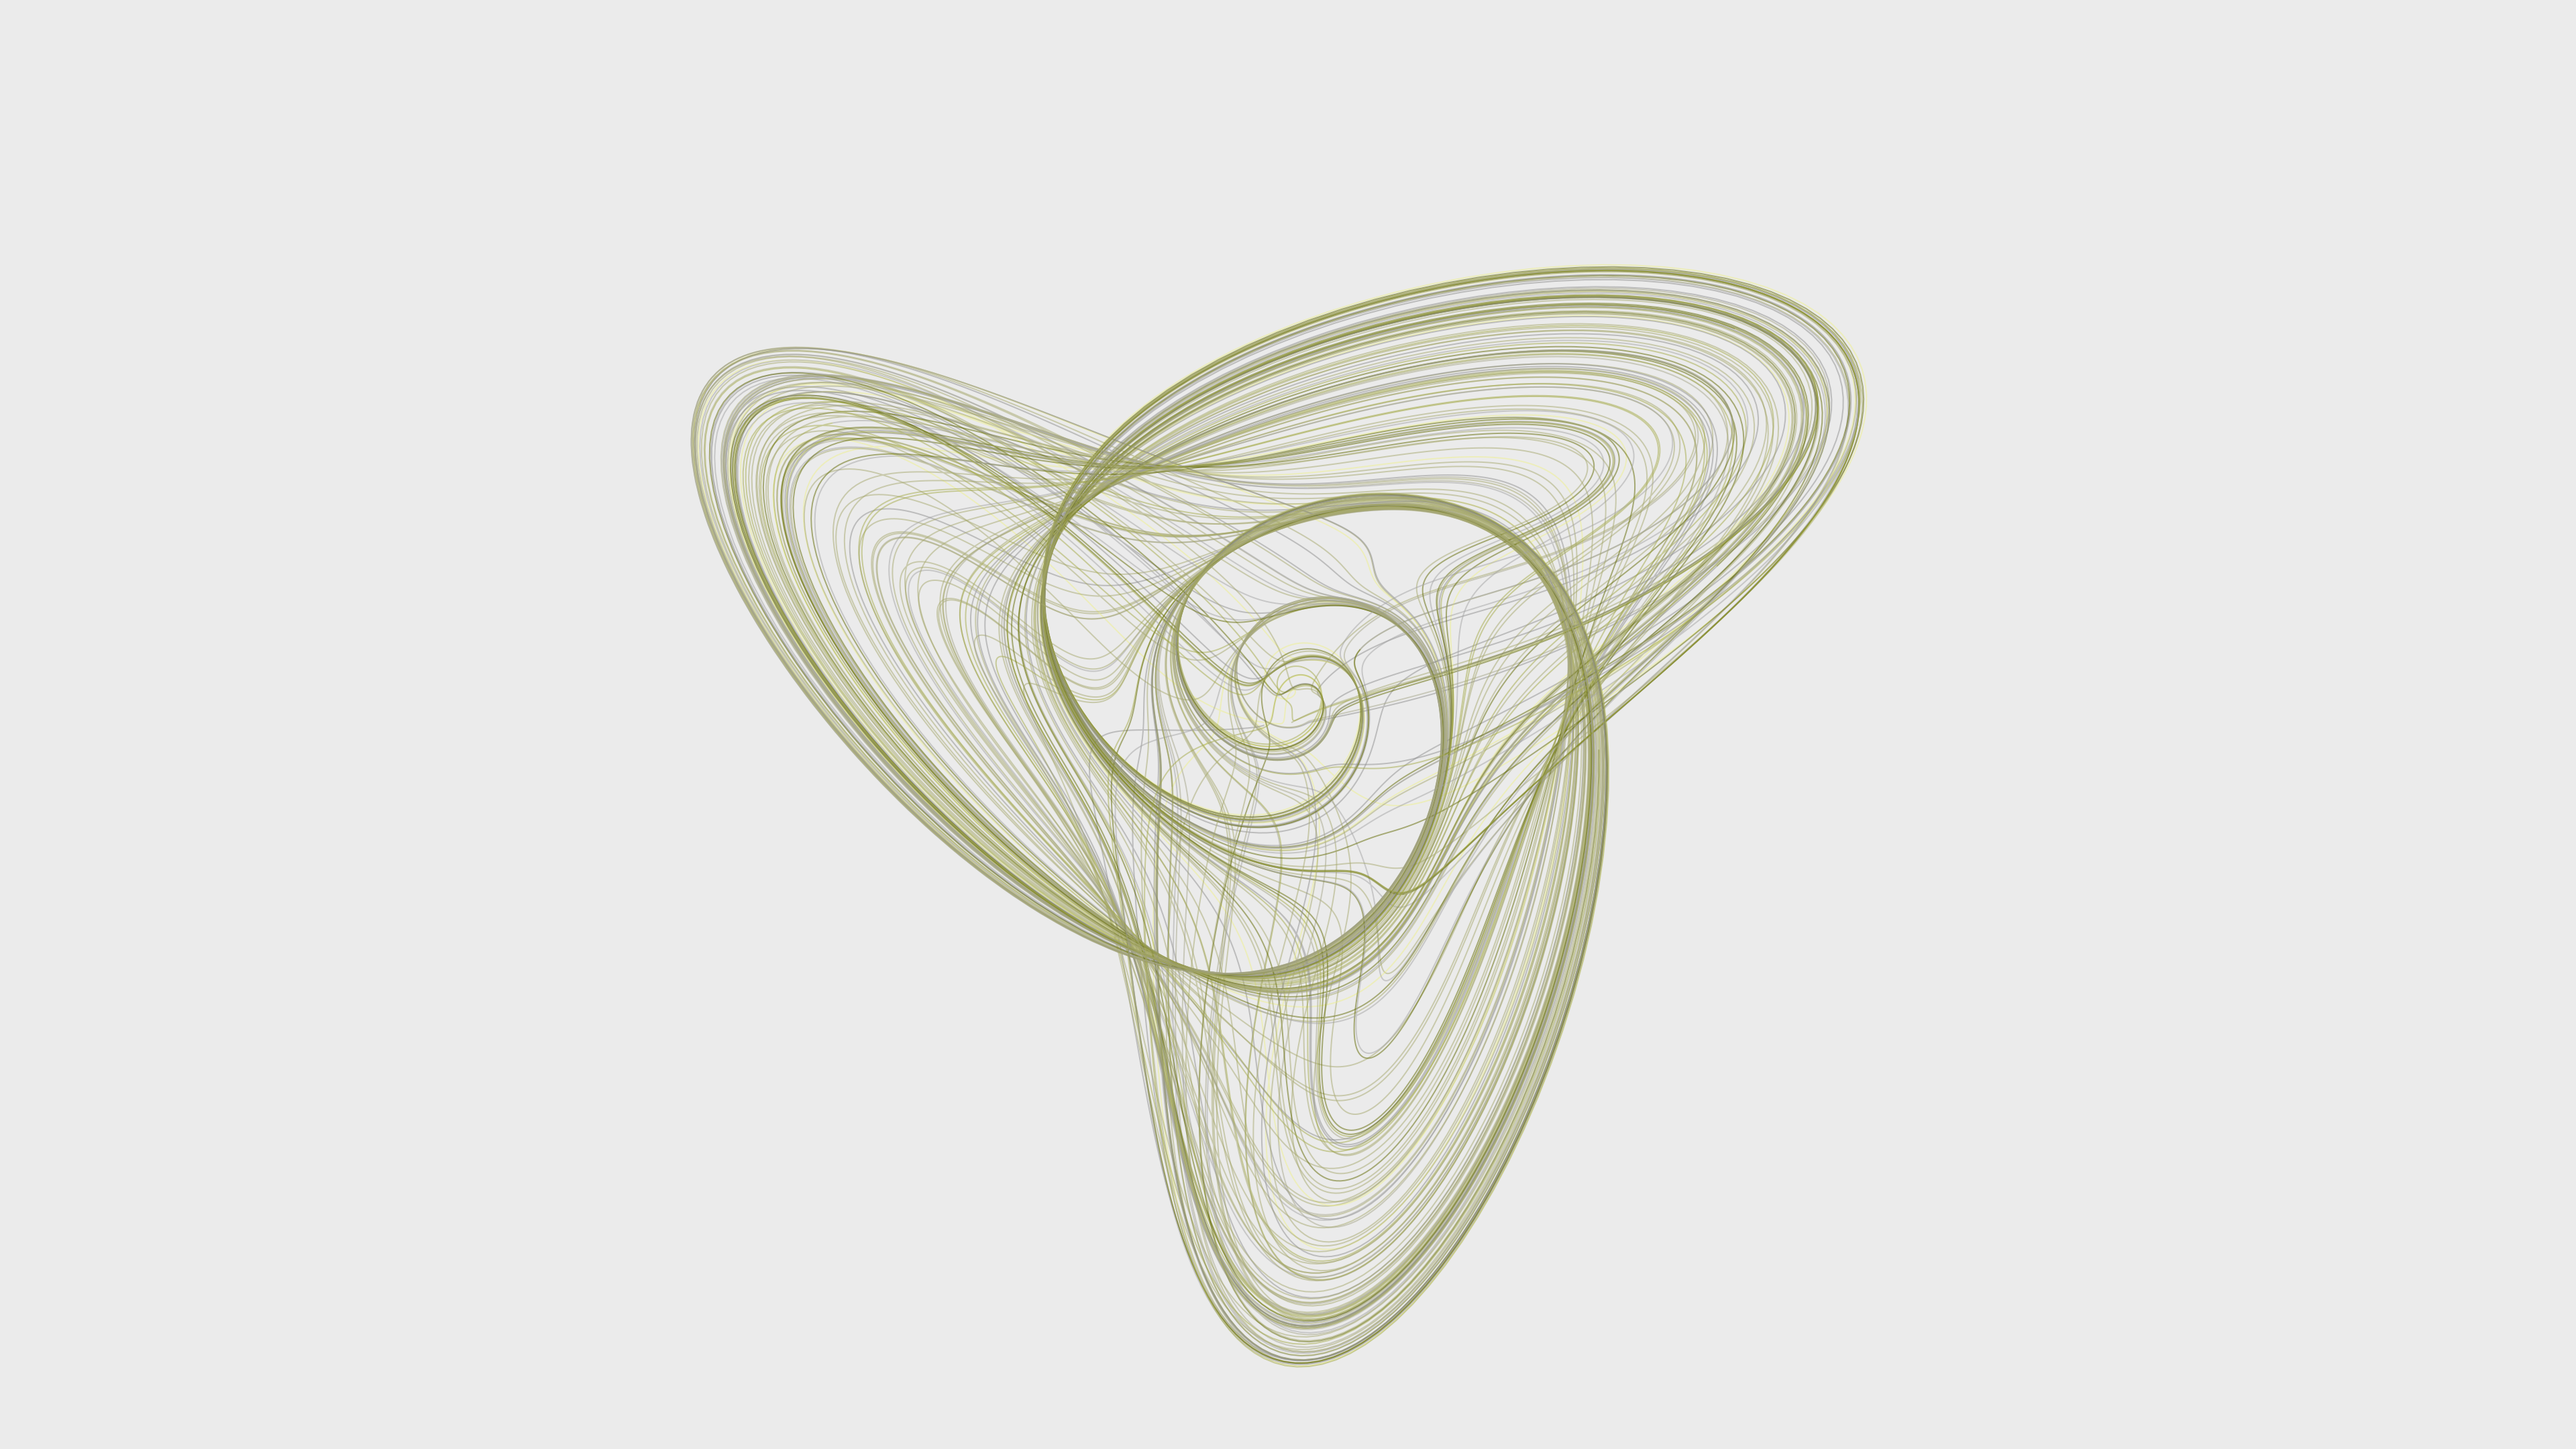
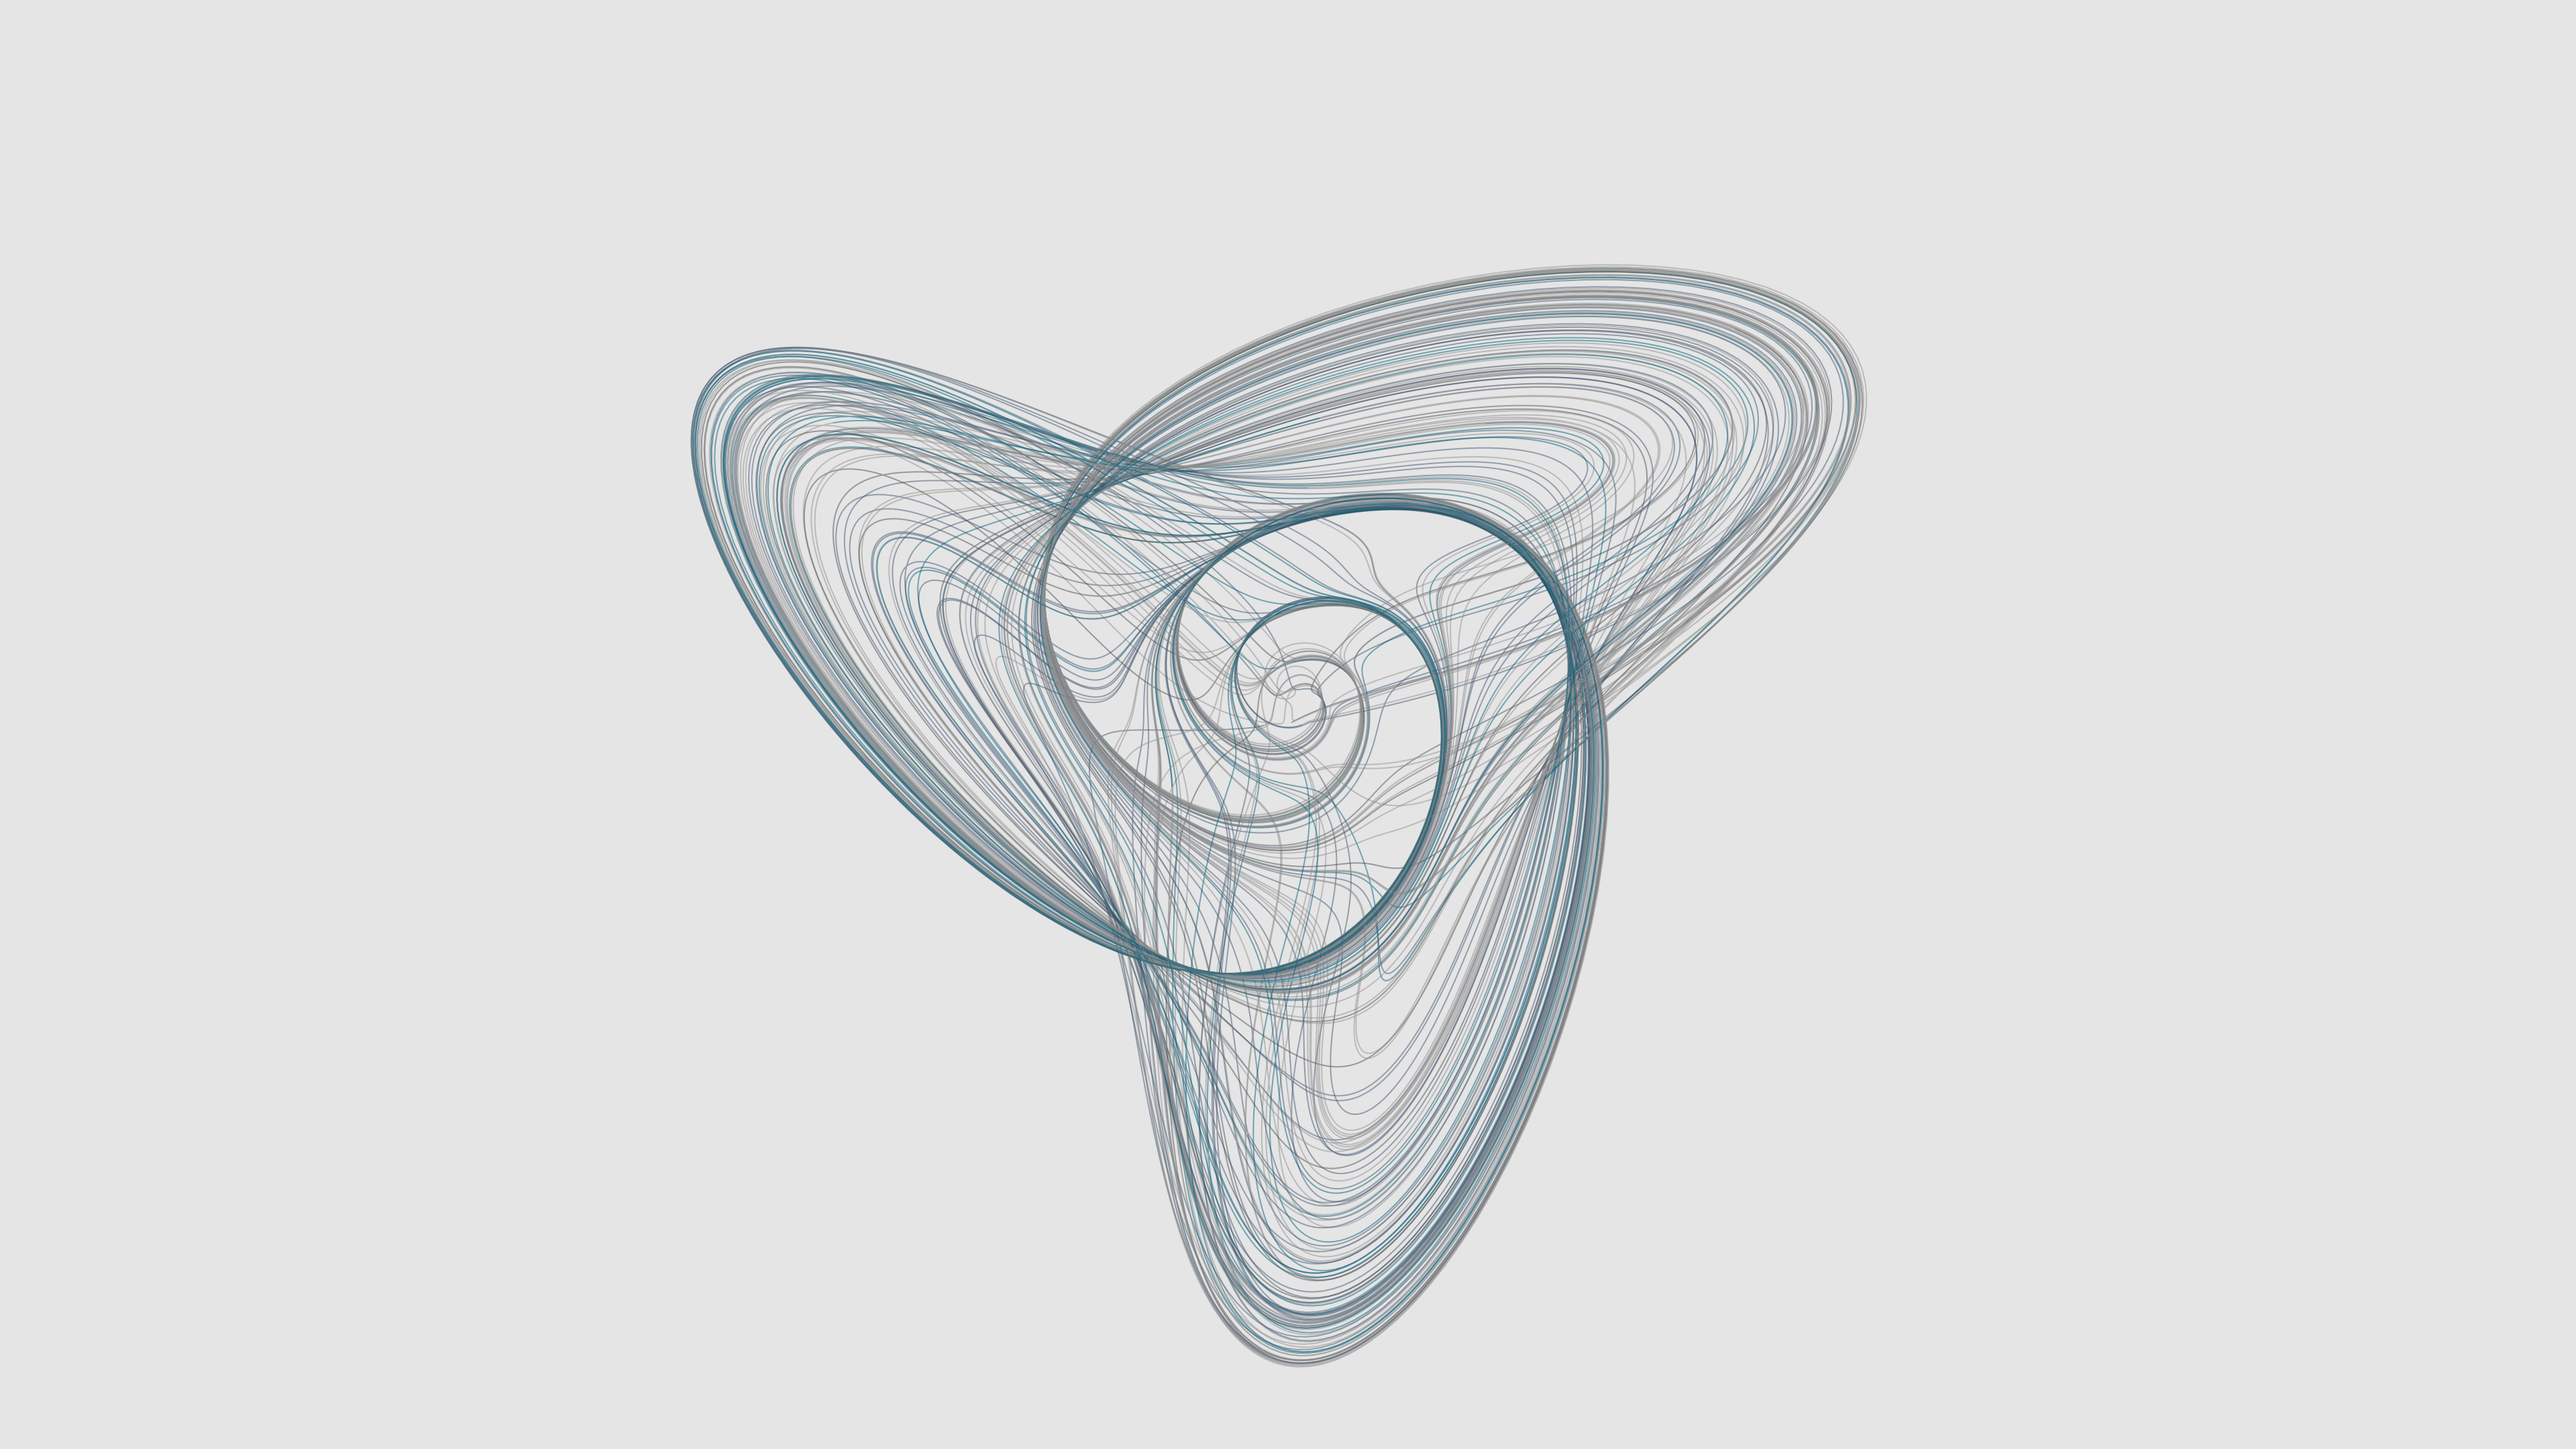
feat: add new color theme

Changed region(s): [[0.25, 0.1861, 0.75, 0.9616]]

diff --git a/configuration/web-greeter/themes/nuunamnir/default.css b/configuration/web-greeter/themes/nuunamnir/default.css
@@ -4,9 +4,9 @@ html, body {
 
     font-family: "Iosevka Nerd Font", "sans-serif";
     font-size: 1.125vh;
-    color: #a4a4a4;
+    color: #909090;
 
-    background-color: #636363;
+    background-color: #282828;
     background: url(wallpaper-dark-4k.png) no-repeat center center fixed; 
     -webkit-background-size: cover;
     -moz-background-size: cover;
@@ -20,7 +20,7 @@ p {
 }
 
 div#status_bar, div#input_bar, div#message_bar {
-    background-color: #636363;
+    background-color: #282828;
 }
 
 div#input_bar {
@@ -39,13 +39,13 @@ div {
 
 input[type="text"] + label::before {
     content: " ";
-    color: #a4a4a4;
+    color: #909090;
     padding-right: 0.275vw;
 }
 
 input[type="password"] + label::before {
     content: "  ";
-    color: #a4a4a4;
+    color: #909090;
     padding-right: 0.275vw;
 }
 
@@ -68,10 +68,10 @@ input#user_input {
     outline: none;
     font-family: "Iosevka Nerd Font", "sans-serif";
     font-size: 1.125vh;
-    color: #d3d3d3;
-    caret-color: #d3d3d3;
+    color: #cbcbcb;
+    caret-color: #cbcbcb;
 
-    background-color: #636363;
+    background-color: #282828;
 }
 
 input#user_input:focus {
@@ -82,7 +82,7 @@ input#user_input:focus {
 }
 
 ::placeholder {
-    color: #a4a4a4;
+    color: #909090;
     opacity: 1;
     font-family: "Iosevka Nerd Font", "sans-serif";
 }
@@ -90,18 +90,18 @@ input#user_input:focus {
 p#message {
     font-family: "Iosevka Nerd Font", "sans-serif";
     font-size: 1.125vh;
-    color: #d3d3d3;
+    color: #cbcbcb;
 }
 
 .error_message {
-    color: #fb8087 !important;
+    color: #ff9fca !important;
 }
 
 .info_message {
-    color: #a5aa49 !important;
+    color: #5bd9ff !important;
 }
 
 p#time {
     text-align: right;
-    color: #d3d3d3;
+    color: #cbcbcb;
 }

diff --git a/configuration/qtile/widgets/audio.py b/configuration/qtile/widgets/audio.py
@@ -13,13 +13,13 @@ import pyaudio
 
 
 class WidgetAudio(libqtile.widget.base.ThreadPoolText):
-    def __init__(self, r, warning_color="#ff0000", **config):
+    def __init__(self, r, num_bars=16, warning_color="#ff0000", **config):
         libqtile.widget.base.ThreadPoolText.__init__(self, **config)
         self.r = r
 
         self.warning_color = warning_color
 
-        self.NUM_BARS = 16
+        self.NUM_BARS = num_bars
         self.stream = sounddevice.InputStream(channels=2, samplerate=44100, callback=self.callback_spectrum)
         self.stream.start()
         self.visualization = ' ' * self.NUM_BARS
@@ -43,13 +43,12 @@ class WidgetAudio(libqtile.widget.base.ThreadPoolText):
             compressed_spectrum_left = self.compress_array(spectrum_left, self.NUM_BARS // 2)
             compressed_spectrum_right = self.compress_array(spectrum_right, self.NUM_BARS // 2)
             compressed_spectrum = numpy.concatenate((compressed_spectrum_left[::-1], compressed_spectrum_right))
-            compressed_spectrum /= numpy.max([numpy.max(compressed_spectrum), 8])
+            compressed_spectrum /= numpy.max([numpy.max(compressed_spectrum), 6])
             compressed_spectrum = 0.8 * self.past_values + 0.2 * compressed_spectrum
             self.past_values = compressed_spectrum
             discretized_spectrum = numpy.round(compressed_spectrum * 8).astype(int)
-            if numpy.sum(discretized_spectrum) > 0:
-                unicode_blocks = [chr(0x2581 + h) if h > 0 else ' ' for h in discretized_spectrum]
-                self.visualization = ''.join(unicode_blocks)
+            unicode_blocks = [chr(0x2581 + h) if h > 0 else ' ' for h in discretized_spectrum]
+            self.visualization = ''.join(unicode_blocks)
         except ValueError as e:
             pass
 
@@ -71,11 +70,6 @@ class WidgetAudio(libqtile.widget.base.ThreadPoolText):
         alpha = numpy.clip(int(round(measurement.get("volume", 0) / 100 * 65536)), 6554, 65535)
         return f"<span fgalpha='{alpha}'>{output}</span>"
     
-    def hz_to_mel(self, hz):
-        return 2595 * numpy.log10(1 + hz / 700)
-
-    def mel_to_hz(self, mel):
-        return 700 * (10**(mel / 2595) - 1)
     
     def __del__(self):
         if self.stream is not None:

diff --git a/configuration/qtile/config.py b/configuration/qtile/config.py
@@ -427,6 +427,8 @@ screens = [
                     borderwidth=0,
                     border=configuration["colors"][theme]["neutral"],
                     urgent_border=configuration["colors"][theme]["negative"],
+                    markup_focused="<span foreground='" + configuration["colors"][theme]["background"] + "'>{}</span>",
+                    foreground=configuration["colors"][theme]["grey"],
                     fontsize=int(
                         round(
                             configuration["monitors"][monitor]["scaling_factor"]
@@ -471,7 +473,7 @@ screens = [
                             * configuration["font"]["size"]
                         )
                     ),
-                    update_interval=1,
+                    update_interval=0.1,
                 ),
                 widget.Spacer(
                     length=int(

diff --git a/configuration/qtile/widgets/location.py b/configuration/qtile/widgets/location.py
@@ -49,7 +49,8 @@ class WidgetLocation(libqtile.widget.base.ThreadPoolText):
             json.dump(configuration, f)
         # execute patch script
         subprocess.Popen(args=["python", os.path.expanduser(os.path.join("~", ".config", "qtile", "widgets", "patch_configurations.py"))])
-        subprocess.Popen(args=["pkill", "-SIGUSR1", "qtile"])
+        # subprocess.Popen(args=["pkill", "-SIGUSR1", "qtile"])
+        subprocess.Popen(args=["qtile", "cmd-obj", "-o", "cmd", "-f", "restart"])
 
     def poll(self):
         if self.r is None:

diff --git a/README.md b/README.md
@@ -25,33 +25,33 @@ The color scheme is designed to correlated lightness and chroma with perceptual 
 
 | Name            | sRGB String    | sRGB Numeric          | Patch |
 |-----------------|---------------------|----------------| ----- |
-| pastel_red      | `#c29b9b            ` | `(0.761, 0.608, 0.608)` | ![#c29b9b](assets/c29b9b.png) |
-| negative        | `#fb8087            ` | `(0.984, 0.502, 0.529)` | ![#fb8087](assets/fb8087.png) |
-| red             | `#dc9192            ` | `(0.863, 0.569, 0.573)` | ![#dc9192](assets/dc9192.png) |
-| background      | `#ebebeb            ` | `(0.922, 0.922, 0.922)` | ![#ebebeb](assets/ebebeb.png) |
-| light_muted     | `#d3d3d3            ` | `(0.827, 0.827, 0.827)` | ![#d3d3d3](assets/d3d3d3.png) |
-| light_grey      | `#bcbcbc            ` | `(0.737, 0.737, 0.737)` | ![#bcbcbc](assets/bcbcbc.png) |
-| cursor          | `#636363            ` | `(0.388, 0.388, 0.388)` | ![#636363](assets/636363.png) |
-| dark_grey       | `#8e8e8e            ` | `(0.557, 0.557, 0.557)` | ![#8e8e8e](assets/8e8e8e.png) |
-| foreground      | `#787878            ` | `(0.471, 0.471, 0.471)` | ![#787878](assets/787878.png) |
-| dark_muted      | `#787878            ` | `(0.471, 0.471, 0.471)` | ![#787878](assets/787878.png) |
-| grey            | `#a4a4a4            ` | `(0.643, 0.643, 0.643)` | ![#a4a4a4](assets/a4a4a4.png) |
-| pastel_yellow   | `#b4a289            ` | `(0.706, 0.635, 0.537)` | ![#b4a289](assets/b4a289.png) |
-| yellow          | `#bfa06e            ` | `(0.749, 0.627, 0.431)` | ![#bfa06e](assets/bfa06e.png) |
-| effect_pastel   | `#a7a68a            ` | `(0.655, 0.651, 0.541)` | ![#a7a68a](assets/a7a68a.png) |
-| neutral         | `#a5aa49            ` | `(0.647, 0.667, 0.286)` | ![#a5aa49](assets/a5aa49.png) |
-| effect_bright   | `#eef18c            ` | `(0.933, 0.945, 0.549)` | ![#eef18c](assets/eef18c.png) |
-| effect_muted    | `#a7a86f            ` | `(0.655, 0.659, 0.435)` | ![#a7a86f](assets/a7a86f.png) |
-| effect_dark     | `#606900            ` | `(0.376, 0.412, 0.000)` | ![#606900](assets/606900.png) |
-| positive        | `#6ab669            ` | `(0.416, 0.714, 0.412)` | ![#6ab669](assets/6ab669.png) |
-| green           | `#84af81            ` | `(0.518, 0.686, 0.506)` | ![#84af81](assets/84af81.png) |
-| pastel_green    | `#95aa93            ` | `(0.584, 0.667, 0.576)` | ![#95aa93](assets/95aa93.png) |
-| cyan            | `#4bb4b7            ` | `(0.294, 0.706, 0.718)` | ![#4bb4b7](assets/4bb4b7.png) |
-| pastel_cyan     | `#80adae            ` | `(0.502, 0.678, 0.682)` | ![#80adae](assets/80adae.png) |
-| pastel_blue     | `#90a7bf            ` | `(0.565, 0.655, 0.749)` | ![#90a7bf](assets/90a7bf.png) |
-| blue            | `#73aadb            ` | `(0.451, 0.667, 0.859)` | ![#73aadb](assets/73aadb.png) |
-| magenta         | `#c097c8            ` | `(0.753, 0.592, 0.784)` | ![#c097c8](assets/c097c8.png) |
-| pastel_magenta  | `#b39eb6            ` | `(0.702, 0.620, 0.714)` | ![#b39eb6](assets/b39eb6.png) |
+| cursor          | `#282828            ` | `(0.157, 0.157, 0.157)` | ![#282828](assets/282828.png) |
+| grey            | `#909090            ` | `(0.565, 0.565, 0.565)` | ![#909090](assets/909090.png) |
+| background      | `#e5e5e5            ` | `(0.898, 0.898, 0.898)` | ![#e5e5e5](assets/e5e5e5.png) |
+| foreground      | `#4d4d4d            ` | `(0.302, 0.302, 0.302)` | ![#4d4d4d](assets/4d4d4d.png) |
+| pastel_yellow   | `#69442d            ` | `(0.412, 0.267, 0.176)` | ![#69442d](assets/69442d.png) |
+| yellow          | `#7c3800            ` | `(0.486, 0.220, 0.000)` | ![#7c3800](assets/7c3800.png) |
+| effect_bright   | `#664900            ` | `(0.400, 0.286, 0.000)` | ![#664900](assets/664900.png) |
+| effect_muted    | `#5c4c2e            ` | `(0.361, 0.298, 0.180)` | ![#5c4c2e](assets/5c4c2e.png) |
+| effect_dark     | `#f0c532            ` | `(0.941, 0.773, 0.196)` | ![#f0c532](assets/f0c532.png) |
+| effect_pastel   | `#dec887            ` | `(0.871, 0.784, 0.529)` | ![#dec887](assets/dec887.png) |
+| positive        | `#455600            ` | `(0.271, 0.337, 0.000)` | ![#455600](assets/455600.png) |
+| green           | `#455600            ` | `(0.271, 0.337, 0.000)` | ![#455600](assets/455600.png) |
+| pastel_green    | `#4a522f            ` | `(0.290, 0.322, 0.184)` | ![#4a522f](assets/4a522f.png) |
+| cyan            | `#00644e            ` | `(0.000, 0.392, 0.306)` | ![#00644e](assets/00644e.png) |
+| pastel_cyan     | `#3e5c52            ` | `(0.243, 0.361, 0.322)` | ![#3e5c52](assets/3e5c52.png) |
+| dark_grey       | `#9cd7e2            ` | `(0.612, 0.843, 0.886)` | ![#9cd7e2](assets/9cd7e2.png) |
+| dark_muted      | `#00e4ff            ` | `(0.000, 0.894, 1.000)` | ![#00e4ff](assets/00e4ff.png) |
+| light_grey      | `#425c66            ` | `(0.259, 0.361, 0.400)` | ![#425c66](assets/425c66.png) |
+| neutral         | `#006179            ` | `(0.000, 0.380, 0.475)` | ![#006179](assets/006179.png) |
+| light_muted     | `#006179            ` | `(0.000, 0.380, 0.475)` | ![#006179](assets/006179.png) |
+| pastel_blue     | `#415670            ` | `(0.255, 0.337, 0.439)` | ![#415670](assets/415670.png) |
+| blue            | `#005797            ` | `(0.000, 0.341, 0.592)` | ![#005797](assets/005797.png) |
+| pastel_magenta  | `#51466e            ` | `(0.318, 0.275, 0.431)` | ![#51466e](assets/51466e.png) |
+| magenta         | `#54369c            ` | `(0.329, 0.212, 0.612)` | ![#54369c](assets/54369c.png) |
+| pastel_red      | `#6b3e4d            ` | `(0.420, 0.243, 0.302)` | ![#6b3e4d](assets/6b3e4d.png) |
+| negative        | `#83254c            ` | `(0.514, 0.145, 0.298)` | ![#83254c](assets/83254c.png) |
+| red             | `#83254c            ` | `(0.514, 0.145, 0.298)` | ![#83254c](assets/83254c.png) |
 
 ## OS Installation
 

diff --git a/ISSUES.md b/ISSUES.md
@@ -21,4 +21,9 @@
 
 ## Bugs
 
+- [ ] qtile uses additional resources if the configuration is reloaded
 - [ ] Prevent monitor energy saving when running video in `qutebrowser`
+- [x] picom has some strange effect on video and games (initial black screen)
+    - (2025-12-07) resolved by changing the picom backend from `egl` to `glx`
+- [x] x server crashes when theme switches mode
+    - (2025-12-21) resolved by switching from `pkill` to `qtile cmd-obj`
